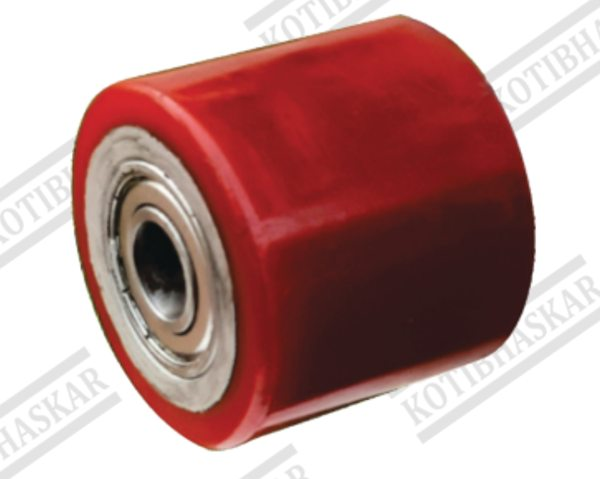
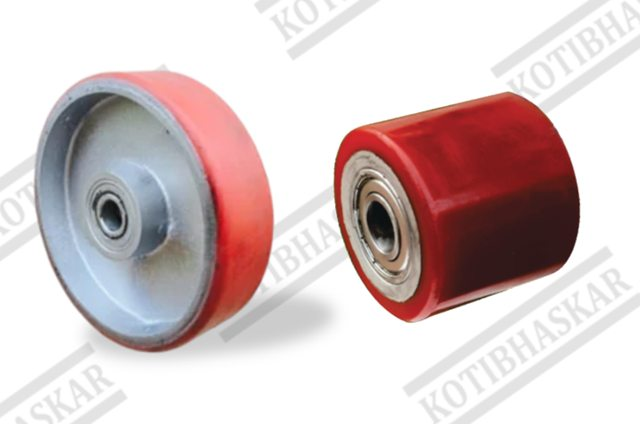
Use new owner photos for pallet truck section
- "Caster Wheels" image is the section's representative image: shown in
  the Pallet Truck Wheels & Rollers page header, on the Wheels & Castors
  and homepage category cards, and as the social-share image.
- Choose a Material cards use the new "uhmw roller", "PUCI roller" and
  "CI Roller" photos (same crop for all three, optimised for web).
- No product data, text or links changed.

diff --git a/wheels-castors/pallet-truck/index.html b/wheels-castors/pallet-truck/index.html
@@ -16,12 +16,12 @@
 <meta property="og:title" content="Pallet Truck Wheels &amp; Rollers – UHMW, PU-CI &amp; Cast Iron, 500–1000 kg | Kotibhaskar">
 <meta property="og:description" content="Replacement rollers and wheels for hand pallet trucks, manufactured in UHMW, PU-CI and cast iron. Every roller and wheel is fitted with ball bearings and has a 20 mm bore. 18 products with technical drawings and specifications. Made in India by Kotibhaskar Industries, Satara.">
 <meta property="og:url" content="https://kotibhaskarindustries.com/wheels-castors/pallet-truck/">
-<meta property="og:image" content="https://kotibhaskarindustries.com/assets/products/pallet-truck/uhmw/roller-80x70x20-photo.jpg">
+<meta property="og:image" content="https://kotibhaskarindustries.com/assets/products/pallet-truck/category.jpg">
 <meta property="og:locale" content="en_IN">
 <meta name="twitter:card" content="summary_large_image">
 <meta name="twitter:title" content="Pallet Truck Wheels &amp; Rollers – UHMW, PU-CI &amp; Cast Iron, 500–1000 kg | Kotibhaskar">
 <meta name="twitter:description" content="Replacement rollers and wheels for hand pallet trucks, manufactured in UHMW, PU-CI and cast iron. Every roller and wheel is fitted with ball bearings and has a 20 mm bore. 18 products with technical drawings and specifications. Made in India by Kotibhaskar Industries, Satara.">
-<meta name="twitter:image" content="https://kotibhaskarindustries.com/assets/products/pallet-truck/uhmw/roller-80x70x20-photo.jpg">
+<meta name="twitter:image" content="https://kotibhaskarindustries.com/assets/products/pallet-truck/category.jpg">
 <script type="application/ld+json">
 {
  "@context": "https://schema.org",
@@ -208,28 +208,31 @@
   <a href="/Kotibhaskar%201%20Castor%20Catalogue.pdf" target="_blank" rel="noopener" class="accent">&#8595; Wheels &amp; Castors Catalogue</a>
 </div>
 <main>
-<header class="page-head">
-  <nav class="crumbs" aria-label="Breadcrumb"><a href="/">Home</a><span class="sep">/</span><a href="/wheels-castors/">Wheels &amp; Castors</a><span class="sep">/</span><span aria-current="page">Pallet Truck Wheels &amp; Rollers</span></nav>
-  <div class="section-tag">Wheels &amp; Castors</div>
-  <h1 class="page-title">Pallet Truck <span class="hl">Wheels &amp; Rollers</span></h1>
-  <p class="page-sub">Replacement rollers and wheels for hand pallet trucks, manufactured in UHMW, PU-CI and cast iron. Every roller and wheel is fitted with ball bearings and has a 20 mm bore.</p>
-  <div class="head-actions">
-    <a class="btn-primary" href="/?enquire=Pallet+Truck+Wheels+%26+Rollers&amp;cat=Wheels+%26+Castors+%3E+Pallet+Truck+Wheels+%26+Rollers&amp;page=https%3A%2F%2Fkotibhaskarindustries.com%2Fwheels-castors%2Fpallet-truck%2F#contact">Enquire Now</a>
-    <a class="btn-dark" href="/Kotibhaskar%201%20Castor%20Catalogue.pdf" target="_blank" rel="noopener"><svg width="14" height="16" viewBox="0 0 14 16" fill="none" aria-hidden="true"><path d="M7 1v9M7 10l-3-3M7 10l3-3M1 13h12" stroke="#E07B2A" stroke-width="1.8" stroke-linecap="round" stroke-linejoin="round"/><path d="M1 13v2h12v-2" stroke="#E07B2A" stroke-width="1.8" stroke-linecap="round"/></svg> Wheels &amp; Castors Catalogue</a>
+<header class="page-head pt-head">
+  <div class="pt-head-main">
+    <nav class="crumbs" aria-label="Breadcrumb"><a href="/">Home</a><span class="sep">/</span><a href="/wheels-castors/">Wheels &amp; Castors</a><span class="sep">/</span><span aria-current="page">Pallet Truck Wheels &amp; Rollers</span></nav>
+    <div class="section-tag">Wheels &amp; Castors</div>
+    <h1 class="page-title">Pallet Truck <span class="hl">Wheels &amp; Rollers</span></h1>
+    <p class="page-sub">Replacement rollers and wheels for hand pallet trucks, manufactured in UHMW, PU-CI and cast iron. Every roller and wheel is fitted with ball bearings and has a 20 mm bore.</p>
+    <div class="head-actions">
+      <a class="btn-primary" href="/?enquire=Pallet+Truck+Wheels+%26+Rollers&amp;cat=Wheels+%26+Castors+%3E+Pallet+Truck+Wheels+%26+Rollers&amp;page=https%3A%2F%2Fkotibhaskarindustries.com%2Fwheels-castors%2Fpallet-truck%2F#contact">Enquire Now</a>
+      <a class="btn-dark" href="/Kotibhaskar%201%20Castor%20Catalogue.pdf" target="_blank" rel="noopener"><svg width="14" height="16" viewBox="0 0 14 16" fill="none" aria-hidden="true"><path d="M7 1v9M7 10l-3-3M7 10l3-3M1 13h12" stroke="#E07B2A" stroke-width="1.8" stroke-linecap="round" stroke-linejoin="round"/><path d="M1 13v2h12v-2" stroke="#E07B2A" stroke-width="1.8" stroke-linecap="round"/></svg> Wheels &amp; Castors Catalogue</a>
+    </div>
+    <div class="key-facts">
+      <div class="fact"><div class="fact-num">18</div><div class="fact-label">Products</div></div>
+      <div class="fact"><div class="fact-num">3</div><div class="fact-label">Materials</div></div>
+      <div class="fact"><div class="fact-num">20<small>mm</small></div><div class="fact-label">Bore</div></div>
+      <div class="fact"><div class="fact-num">500&ndash;1000<small>kg</small></div><div class="fact-label">Load capacity</div></div>
+    </div>
   </div>
-  <div class="key-facts">
-    <div class="fact"><div class="fact-num">18</div><div class="fact-label">Products</div></div>
-    <div class="fact"><div class="fact-num">3</div><div class="fact-label">Materials</div></div>
-    <div class="fact"><div class="fact-num">20<small>mm</small></div><div class="fact-label">Bore</div></div>
-    <div class="fact"><div class="fact-num">500&ndash;1000<small>kg</small></div><div class="fact-label">Load capacity</div></div>
-  </div>
+  <figure class="pt-head-img"><img src="/assets/products/pallet-truck/category.jpg" alt="Kotibhaskar pallet truck wheels and rollers in UHMW, PU-CI and cast iron" width="1200" height="900"></figure>
 </header>
 
 <div class="wrap">
   <h2 class="h2">Choose a Material</h2>
   <div class="pt-choices">
 <a class="pt-choice" href="/wheels-castors/pallet-truck/uhmw/">
-  <div class="pt-choice-img"><img src="/assets/products/pallet-truck/uhmw/material-card.jpg" alt="UHMW pallet truck rollers and wheels" loading="lazy" width="600" height="479"></div>
+  <div class="pt-choice-img"><img src="/assets/products/pallet-truck/uhmw/material-card.jpg" alt="UHMW pallet truck rollers and wheels" loading="lazy" width="640" height="424"></div>
   <div class="pt-choice-body">
     <div class="pt-choice-name">UHMW</div>
     <div class="pt-choice-full">Ultra-High-Molecular-Weight Polyethylene</div>
@@ -241,7 +244,7 @@
   </div>
 </a>
 <a class="pt-choice" href="/wheels-castors/pallet-truck/puci/">
-  <div class="pt-choice-img"><img src="/assets/products/pallet-truck/puci/material-card.jpg" alt="PU-CI pallet truck rollers and wheels" loading="lazy" width="600" height="479"></div>
+  <div class="pt-choice-img"><img src="/assets/products/pallet-truck/puci/material-card.jpg" alt="PU-CI pallet truck rollers and wheels" loading="lazy" width="640" height="424"></div>
   <div class="pt-choice-body">
     <div class="pt-choice-name">PU-CI</div>
     <div class="pt-choice-full">Polyurethane with Cast Iron Core</div>
@@ -253,7 +256,7 @@
   </div>
 </a>
 <a class="pt-choice" href="/wheels-castors/pallet-truck/ci/">
-  <div class="pt-choice-img"><img src="/assets/products/pallet-truck/ci/material-card.jpg" alt="CI pallet truck rollers and wheels" loading="lazy" width="600" height="479"></div>
+  <div class="pt-choice-img"><img src="/assets/products/pallet-truck/ci/material-card.jpg" alt="CI pallet truck rollers and wheels" loading="lazy" width="640" height="424"></div>
   <div class="pt-choice-body">
     <div class="pt-choice-name">CI</div>
     <div class="pt-choice-full">Cast Iron</div>

diff --git a/index.html b/index.html
@@ -601,7 +601,7 @@ footer{background:#1A2332;padding:52px 5% 26px;border-top:3px solid #C85A00;}
       <a class="prod-item" href="/wheels-castors/uhmw/" style="text-decoration:none;color:inherit;display:block;"><div class="prod-img"><img src="/assets/products/wheels/uhmw/md-100x50-thumb.jpg" alt="UHMW PE Wheels" loading="lazy"></div><div class="prod-name">UHMW &ndash; PE Wheels</div><span class="prod-arrow">&rarr; 30 Sizes</span></a>
       <a class="prod-item" href="/wheels-castors/puci/" style="text-decoration:none;color:inherit;display:block;"><div class="prod-img"><img src="/assets/products/wheels/puci/md-100x50-thumb.jpg" alt="PU CI Wheels" loading="lazy"></div><div class="prod-name">PU &ndash; CI Wheels</div><span class="prod-arrow">&rarr; 30 Sizes</span></a>
       <a class="prod-item" href="/wheels-castors/ci/" style="text-decoration:none;color:inherit;display:block;"><div class="prod-img"><img src="/assets/products/wheels/ci/md-100x50-thumb.jpg" alt="Cast Iron Wheels" loading="lazy"></div><div class="prod-name">Cast Iron Wheels</div><span class="prod-arrow">&rarr; 30 Sizes</span></a>
-      <a class="prod-item" href="/wheels-castors/pallet-truck/" style="text-decoration:none;color:inherit;display:block;"><div class="prod-img"><img src="/assets/products/pallet-truck/uhmw/roller-80x70x20-thumb.jpg" alt="Pallet Truck Wheels &amp; Rollers" loading="lazy"></div><div class="prod-name">Pallet Truck Wheels &amp; Rollers</div><span class="prod-arrow">&rarr; 18 Products</span></a>
+      <a class="prod-item" href="/wheels-castors/pallet-truck/" style="text-decoration:none;color:inherit;display:block;"><div class="prod-img"><img src="/assets/products/pallet-truck/category-thumb.jpg" alt="Pallet Truck Wheels &amp; Rollers" loading="lazy"></div><div class="prod-name">Pallet Truck Wheels &amp; Rollers</div><span class="prod-arrow">&rarr; 18 Products</span></a>
       <!-- HIDDEN UNTIL READY: MS track wheels and castor series (photos, drawings and specs pending).
       <div class="prod-item" onclick="openModal('msw')"><div class="prod-img"><img src="https://kotibhaskar.in/images/castors/index/4.jpg" alt="MS Track Wheels" loading="lazy"></div><div class="prod-name">MS Solid Track Wheels</div><span class="prod-arrow">&rarr; Specs</span></div>
       <div class="prod-item" onclick="openModal('mdc')"><div class="prod-img"><img src="https://kotibhaskar.in/images/castors/index/5.jpg" alt="MD Steel Castors" loading="lazy"></div><div class="prod-name">MD Steel Castors</div><span class="prod-arrow">&rarr; Specs</span></div>

diff --git a/assets/css/site.css b/assets/css/site.css
@@ -110,6 +110,12 @@ img{max-width:100%;}
 .hub-grid .p-card-img{aspect-ratio:4/3;}
 @media(max-width:1100px){.card-grid.hub-grid{grid-template-columns:repeat(2,minmax(0,300px));}}
 @media(max-width:600px){.card-grid.hub-grid{grid-template-columns:minmax(0,340px);}}
+/* Pallet truck wheels & rollers: category header with representative image */
+.page-head.pt-head{display:grid;grid-template-columns:minmax(0,1fr) minmax(0,40%);gap:48px;align-items:center;}
+.pt-head-main{min-width:0;}
+.pt-head-img{margin:0;background:#fff;border:1px solid #DDD8D0;padding:10px;box-shadow:0 8px 24px rgba(26,35,50,.08);}
+.pt-head-img img{display:block;width:100%;height:auto;}
+@media(max-width:1000px){.page-head.pt-head{grid-template-columns:1fr;gap:28px;}.pt-head-img{max-width:520px;}}
 /* Pallet truck wheels & rollers: material choice cards */
 .pt-choices{display:grid;grid-template-columns:repeat(3,minmax(0,1fr));gap:18px;}
 .pt-choice{background:#fff;border:1px solid #DDD8D0;border-top:4px solid #C85A00;text-decoration:none;color:inherit;display:flex;flex-direction:column;transition:all .2s;}

diff --git a/wheels-castors/index.html b/wheels-castors/index.html
@@ -122,7 +122,7 @@
   </div>
 </a>
 <a class="p-card" href="/wheels-castors/pallet-truck/">
-  <div class="p-card-img"><img src="/assets/products/pallet-truck/uhmw/roller-80x70x20-thumb.jpg" alt="Pallet Truck Wheels &amp; Rollers" loading="lazy" width="420" height="594"></div>
+  <div class="p-card-img"><img src="/assets/products/pallet-truck/category-thumb.jpg" alt="Pallet Truck Wheels &amp; Rollers" loading="lazy" width="600" height="450"></div>
   <div class="p-card-body">
     <div class="p-card-duty">18 products</div>
     <div class="p-card-name">Pallet Truck Wheels &amp; Rollers</div>

diff --git a/tools/build_site.py b/tools/build_site.py
@@ -505,7 +505,7 @@ def build_hub(cats, pt=None):
     if pt and pt.get('products'):
         loads = [p['load_kg'] for p in pt['products']]
         cards.append(f'''<a class="p-card" href="{pt['url']}">
-  <div class="p-card-img"><img src="{pt['products'][0]['images']['thumb']}" alt="{e(pt['name'])}" loading="lazy" width="420" height="594"></div>
+  <div class="p-card-img"><img src="/assets/products/pallet-truck/category-thumb.jpg" alt="{e(pt['name'])}" loading="lazy" width="600" height="450"></div>
   <div class="p-card-body">
     <div class="p-card-duty">{len(pt['products'])} products</div>
     <div class="p-card-name">{e(pt['name'])}</div>
@@ -595,7 +595,7 @@ def build_pt_category(cat):
         sp = [p for p in prods if p['subcat'] == sc['id']]
         kinds = sorted({p['kind'] for p in sp}, key=lambda k: k != 'Roller')
         choices.append(f'''<a class="pt-choice" href="{url}{sc['id']}/">
-  <div class="pt-choice-img"><img src="/assets/products/pallet-truck/{sc['id']}/material-card.jpg" alt="{e(sc['short'])} pallet truck rollers and wheels" loading="lazy" width="600" height="479"></div>
+  <div class="pt-choice-img"><img src="/assets/products/pallet-truck/{sc['id']}/material-card.jpg" alt="{e(sc['short'])} pallet truck rollers and wheels" loading="lazy" width="640" height="424"></div>
   <div class="pt-choice-body">
     <div class="pt-choice-name">{e(sc['short'])}</div>
     <div class="pt-choice-full">{e(sc['full'])}</div>
@@ -607,21 +607,24 @@ def build_pt_category(cat):
   </div>
 </a>''')
     loads = [p['load_kg'] for p in prods]
-    body = f'''<header class="page-head">
-  {crumb_html}
-  <div class="section-tag">Wheels &amp; Castors</div>
-  <h1 class="page-title">Pallet Truck <span class="hl">Wheels &amp; Rollers</span></h1>
-  <p class="page-sub">{e(cat['intro'])}</p>
-  <div class="head-actions">
-    <a class="btn-primary" href="{e(enquire_url(cat['name'], None, 'Wheels & Castors > ' + cat['name'], url))}">Enquire Now</a>
-    <a class="btn-dark" href="{CATALOGUE}" target="_blank" rel="noopener">{DL_ICON} Wheels &amp; Castors Catalogue</a>
+    body = f'''<header class="page-head pt-head">
+  <div class="pt-head-main">
+    {crumb_html}
+    <div class="section-tag">Wheels &amp; Castors</div>
+    <h1 class="page-title">Pallet Truck <span class="hl">Wheels &amp; Rollers</span></h1>
+    <p class="page-sub">{e(cat['intro'])}</p>
+    <div class="head-actions">
+      <a class="btn-primary" href="{e(enquire_url(cat['name'], None, 'Wheels & Castors > ' + cat['name'], url))}">Enquire Now</a>
+      <a class="btn-dark" href="{CATALOGUE}" target="_blank" rel="noopener">{DL_ICON} Wheels &amp; Castors Catalogue</a>
+    </div>
+    <div class="key-facts">
+      <div class="fact"><div class="fact-num">{len(prods)}</div><div class="fact-label">Products</div></div>
+      <div class="fact"><div class="fact-num">{len(subcats)}</div><div class="fact-label">Materials</div></div>
+      <div class="fact"><div class="fact-num">{n(prods[0]['bore_mm']) if len({p['bore_mm'] for p in prods}) == 1 else '—'}<small>mm</small></div><div class="fact-label">Bore</div></div>
+      <div class="fact"><div class="fact-num">{n(min(loads))}&ndash;{n(max(loads))}<small>kg</small></div><div class="fact-label">Load capacity</div></div>
+    </div>
   </div>
-  <div class="key-facts">
-    <div class="fact"><div class="fact-num">{len(prods)}</div><div class="fact-label">Products</div></div>
-    <div class="fact"><div class="fact-num">{len(subcats)}</div><div class="fact-label">Materials</div></div>
-    <div class="fact"><div class="fact-num">{n(prods[0]['bore_mm']) if len({p['bore_mm'] for p in prods}) == 1 else '—'}<small>mm</small></div><div class="fact-label">Bore</div></div>
-    <div class="fact"><div class="fact-num">{n(min(loads))}&ndash;{n(max(loads))}<small>kg</small></div><div class="fact-label">Load capacity</div></div>
-  </div>
+  <figure class="pt-head-img"><img src="/assets/products/pallet-truck/category.jpg" alt="Kotibhaskar pallet truck wheels and rollers in UHMW, PU-CI and cast iron" width="1200" height="900"></figure>
 </header>
 
 <div class="wrap">
@@ -649,7 +652,7 @@ def build_pt_category(cat):
     ]}
     return page(title=f"Pallet Truck Wheels & Rollers – UHMW, PU-CI & Cast Iron, {n(min(loads))}–{n(max(loads))} kg | Kotibhaskar",
                 description=f"{cat['intro']} {len(prods)} products with technical drawings and specifications. Made in India by Kotibhaskar Industries, Satara.",
-                canonical=url, body=body, jsonld=jsonld, og_image=SITE + prods[0]['images']['photo'],
+                canonical=url, body=body, jsonld=jsonld, og_image=SITE + '/assets/products/pallet-truck/category.jpg',
                 wa_text=f"Hello, I'm interested in your pallet truck wheels & rollers (kotibhaskarindustries.com{url}).")
 
 
